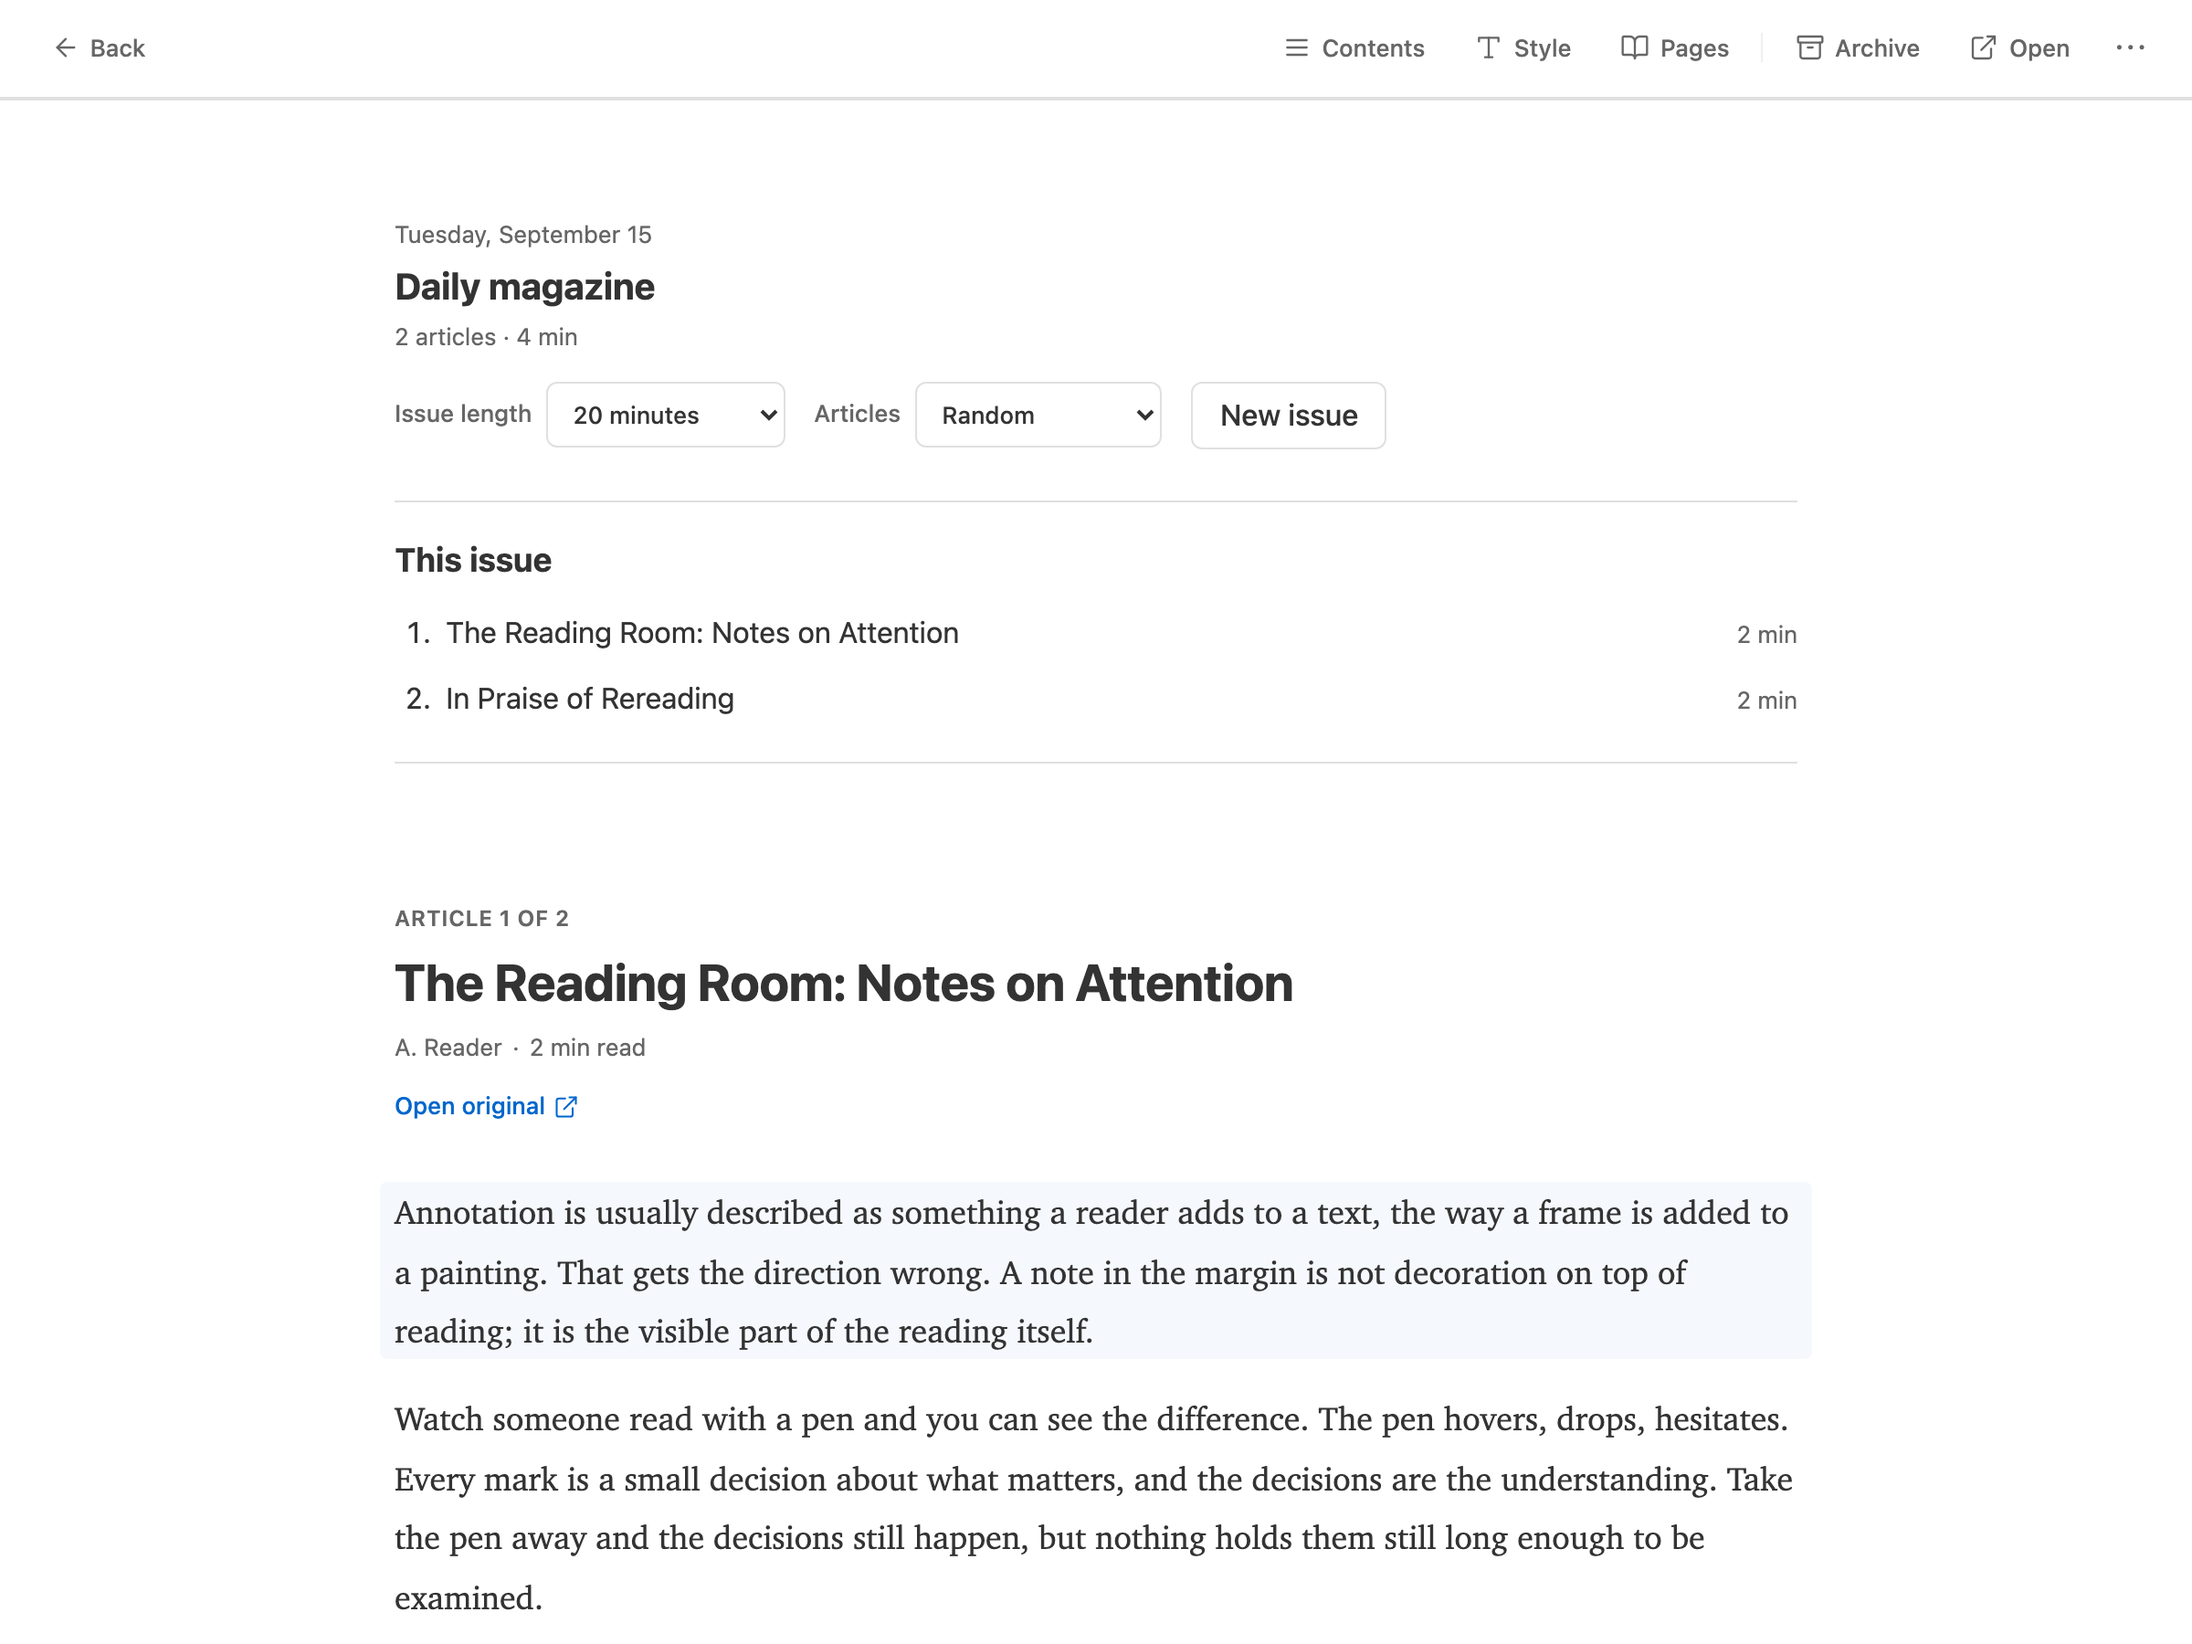
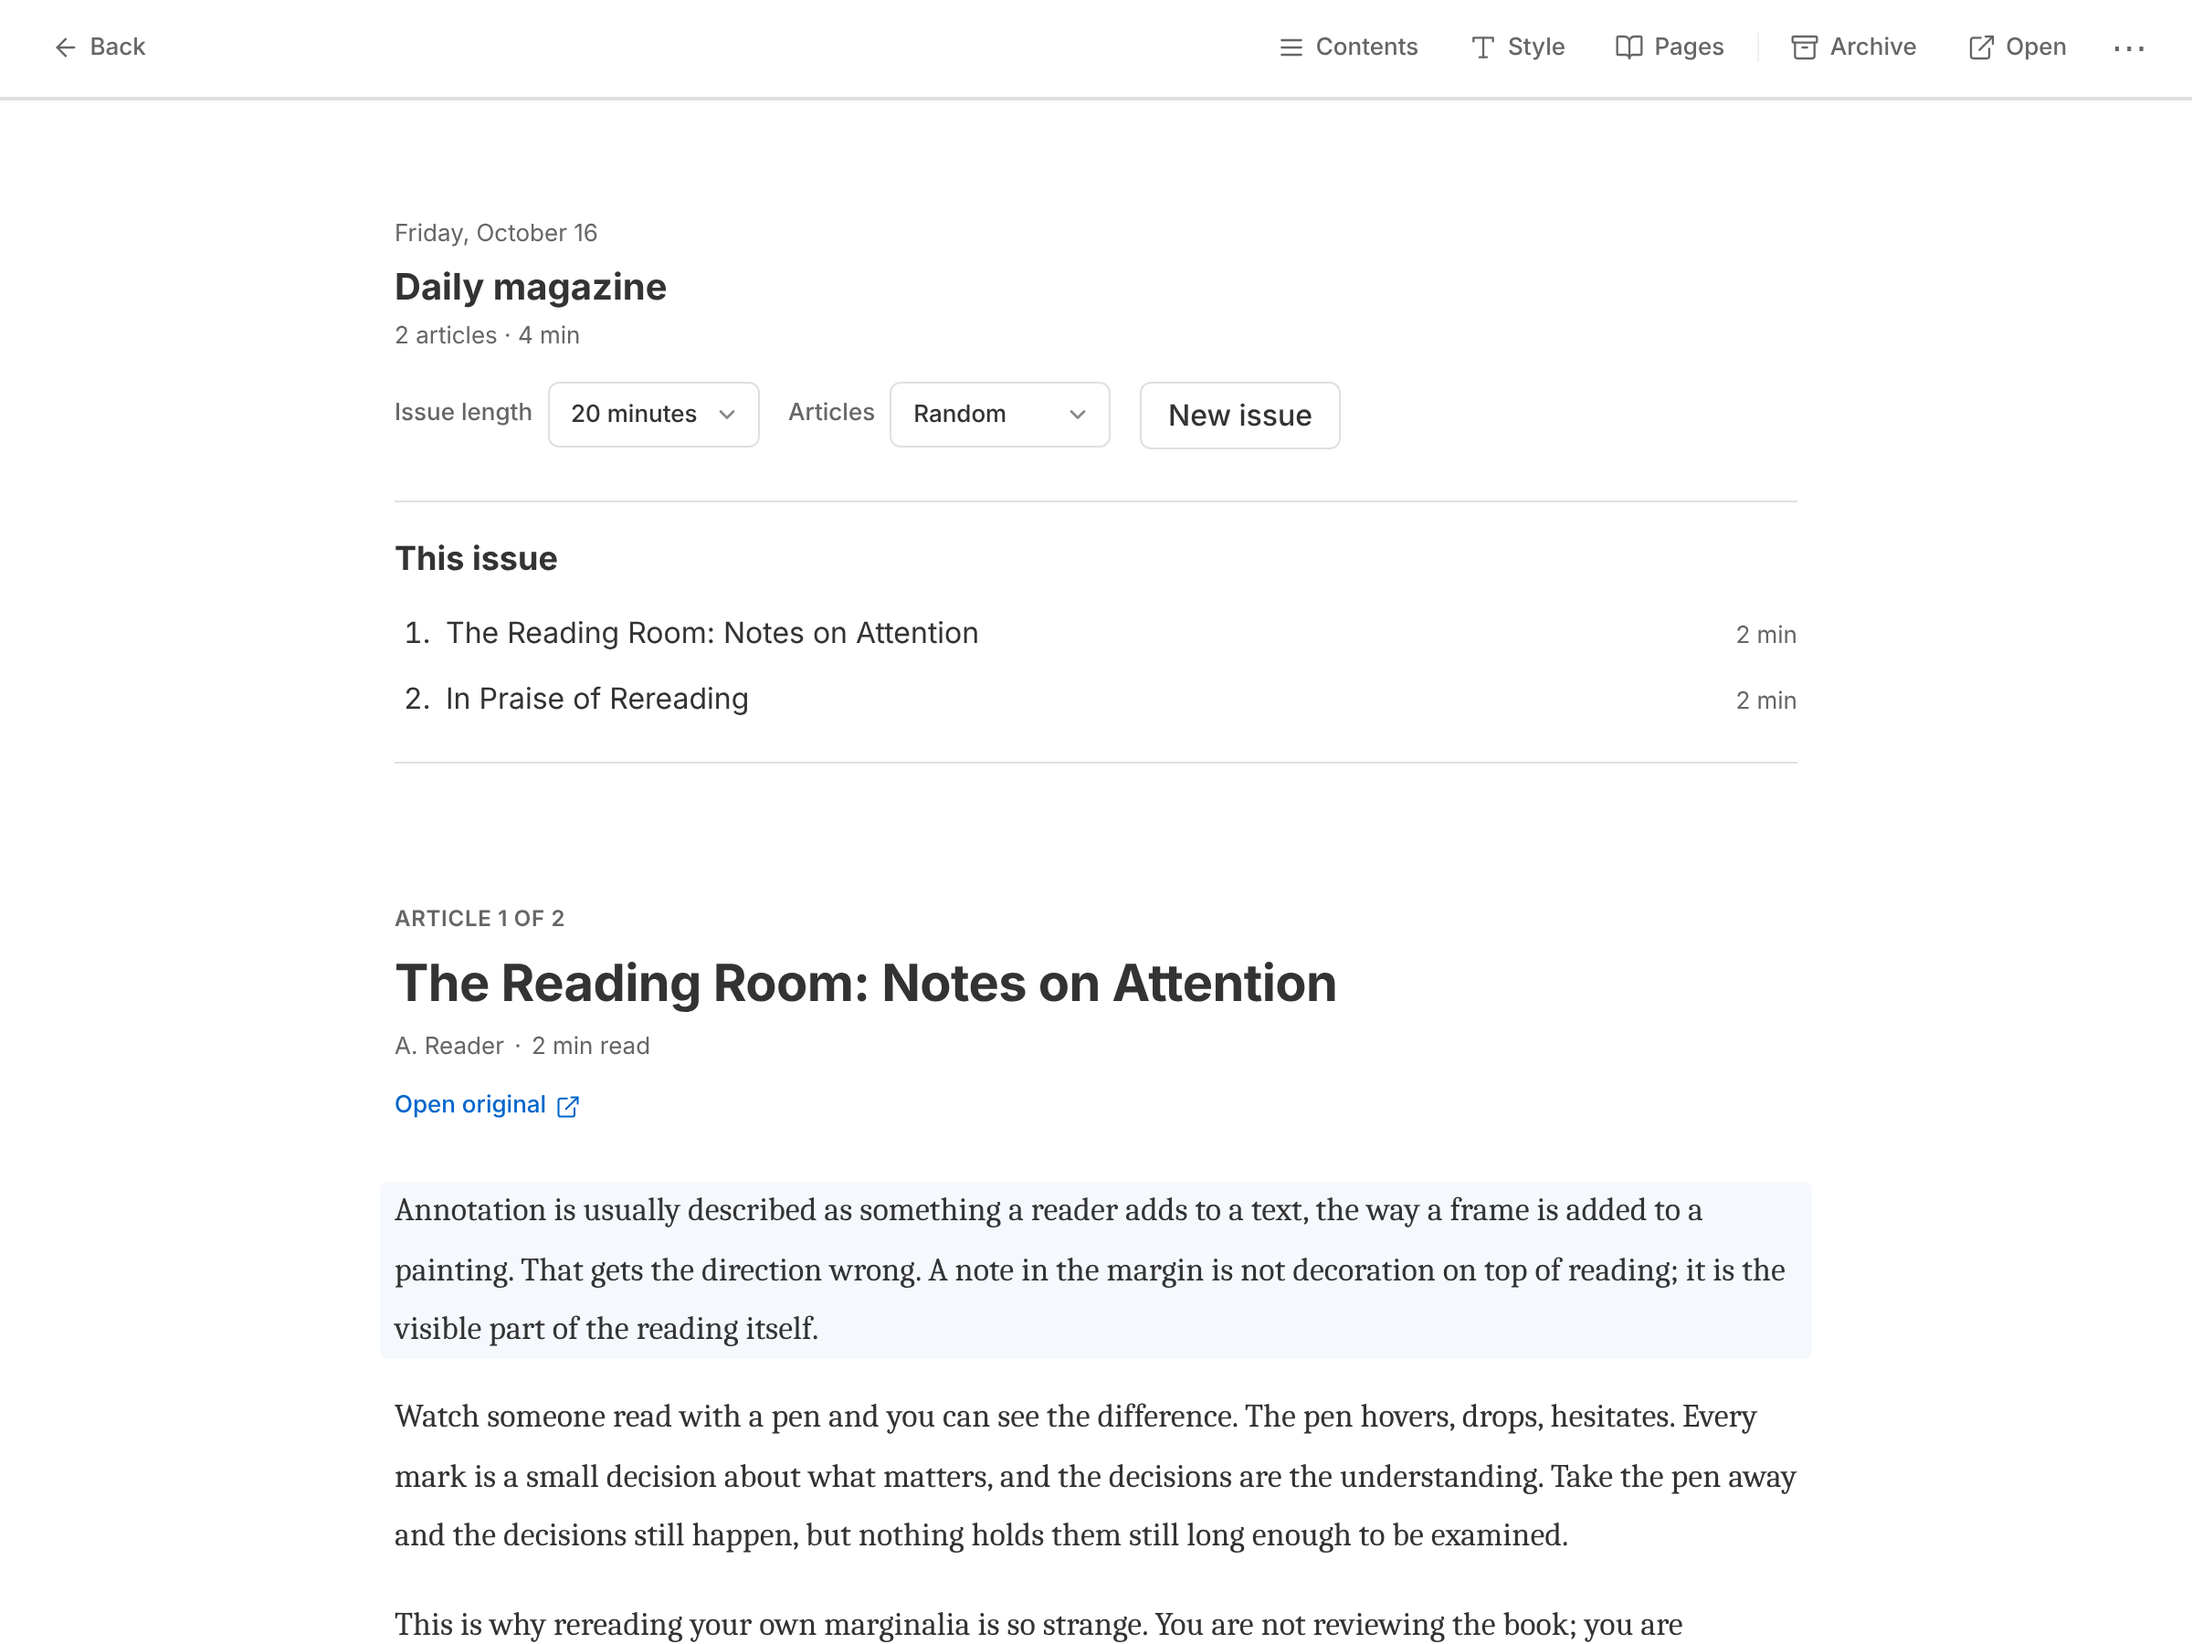
Docs: regenerate screenshots for the Library, add a Shelf shot
`npm run shots:docs` again, so every shot shows the Library sidebar
(Queue + Shelf). The Queue shot now includes a paper and a book marked
"On Shelf", and a new shelf.png shows the Shelf with a book archived
from the Queue, embedded in "Your Library: Queue and Shelf". The PDF
section notes Original-view reading reaches Continue reading.

Two shot specs had drifted from the app and no longer ran: the composer
now has two attribution toggles (pick "Posted from Skyreader" by name),
and the Add dialog opens with tabs (go through Website).

Claude-Session: https://claude.ai/code/session_013S31B3Wkz654c8N7GHFcZu

diff --git a/e2e-docs/docs-screenshots.spec.ts b/e2e-docs/docs-screenshots.spec.ts
@@ -142,9 +142,10 @@ test.describe('Sharing and your linkblog', () => {
       .fill('The case for slowness here is really a case for holding more in mind at once.');
 
     // Tick "Posted from Skyreader" so the preview line shows what opting in adds.
-    await composer.locator('.attribution-toggle input').check();
+    const attribution = composer.getByRole('checkbox', { name: 'Posted from Skyreader' });
+    await attribution.check();
     // Park focus so no caret lands in the shot.
-    await composer.locator('.attribution-toggle input').blur();
+    await attribution.blur();
 
     await shootElement(authedPage, composer, 'linkblog-composer.png');
   });
@@ -353,11 +354,63 @@ test.describe('Saving and highlights', () => {
       });
     }
 
+    // A paper and two books, so the Queue shows what's also on the Shelf, and the
+    // Shelf shows a book archived from the Queue that it keeps.
+    const now = Date.now();
+    await seedSavedArticle(testUser, {
+      url: 'https://example.com/papers/close-reading.pdf',
+      title: 'Close Reading in a Distracted Age',
+      author: 'M. Margins',
+      contentType: 'pdf',
+      savedAt: now - 30 * 60_000,
+    });
+    await seedSavedArticle(testUser, {
+      url: 'https://example.com/books/middlemarch.epub',
+      title: 'Middlemarch',
+      author: 'George Eliot',
+      contentType: 'epub',
+      savedAt: now - 26 * 60 * 60_000,
+    });
+    const finished = await seedSavedArticle(testUser, {
+      url: 'https://example.com/books/the-waves.epub',
+      title: 'The Waves',
+      author: 'Virginia Woolf',
+      contentType: 'epub',
+      savedAt: now - 5 * 24 * 60 * 60_000,
+    });
+    const finishedUri = `at://${testUser.did}/app.skyreader.feed.saved/${finished}`;
+    await seedItemLabel(testUser, {
+      itemKey: finishedUri,
+      itemType: 'saved',
+      label: 'archived',
+      props: '{}',
+    });
+    await seedItemLabel(testUser, {
+      itemKey: finishedUri,
+      itemType: 'saved',
+      label: 'readProgress',
+      props: JSON.stringify({ paragraphIndex: 24, totalParagraphs: 60, lastReadAt: now }),
+    });
+
     await prettifyAccount(authedPage);
     await authedPage.goto('/saved');
     await expect(authedPage.getByText(saves[0].title)).toBeVisible({ timeout: 15_000 });
+    await expect(
+      authedPage.locator('.bookmark-card', { hasText: 'Middlemarch' }).getByText('On Shelf')
+    ).toBeVisible();
     await authedPage.evaluate(() => document.fonts.ready);
     await authedPage.screenshot({ path: join(OUT_DIR, 'saved.png'), animations: 'disabled' });
+
+    // The Shelf: the same saves, kept. The archived book stays, marked so.
+    await authedPage.goto('/shelf');
+    await expect(
+      authedPage.locator('.shelf-card', { hasText: 'The Waves' }).getByText('Archived')
+    ).toBeVisible({ timeout: 15_000 });
+    await authedPage.evaluate(() => document.fonts.ready);
+    await authedPage.screenshot({ path: join(OUT_DIR, 'shelf.png'), animations: 'disabled' });
+
+    await authedPage.goto('/saved');
+    await expect(authedPage.getByText(saves[0].title)).toBeVisible({ timeout: 15_000 });
 
     // Into the full-screen reader.
     await authedPage.getByText(saves[0].title).first().click();
@@ -472,13 +525,11 @@ test.describe('Adding sources', () => {
     );
 
     await authedPage.goto('/feeds');
-    await authedPage.locator('button.add-trigger[aria-label="Add source"]').click();
-    const input = authedPage.getByPlaceholder('Paste URL or @handle...');
-    await input.fill('commonplace.example.com');
-    await input.press('Enter');
-
+    await authedPage.locator('button.add-trigger').first().click();
     const modal = authedPage.locator('.modal');
     await expect(modal).toBeVisible({ timeout: 5_000 });
+    await modal.getByRole('tab', { name: /Website/ }).click();
+    await modal.getByLabel('Website or feed URL').fill('commonplace.example.com');
     await modal.locator('button.add-btn', { hasText: 'Add' }).click();
     await expect(modal.getByText('Multiple feeds found')).toBeVisible();
     await authedPage.evaluate(() => document.fonts.ready);

diff --git a/docs-site/src/content/docs/guide/saving-and-highlights.md b/docs-site/src/content/docs/guide/saving-and-highlights.md
@@ -25,7 +25,7 @@ If the article is already in Semble or Margin, the picker opens on the collectio
 
 PDFs are a [Supporter](/supporter/) feature. Save a link to a PDF (a paper, a report) the same way you save an article, or upload one from your device: open **+ → File**, or drop the file anywhere in Skyreader. Skyreader keeps its text, set as ordinary paragraphs, so you can read, highlight, take notes, and search it like anything else you save.
 
-A saved PDF opens as text, set for reading. For figures, tables, equations, and layout, switch the toggle under the title from **Text** to **Original** to see the pages as printed. Highlight and take notes on either: a passage you mark in one is marked in the other. The PDF's own links work there too: a reference or a contents entry jumps to its page, and the arrow beside the page number takes you back. Skyreader remembers which you prefer and the zoom you left each PDF at, and Original opens where you stopped reading, on any of your devices. In Original, the text-size keys zoom the pages: **Shift +** and **Shift -**, with **Shift 0** to fit the width. Skyreader keeps the original of every PDF you save, by link or upload, so it stays readable even if its site takes it down.
+A saved PDF opens as text, set for reading. For figures, tables, equations, and layout, switch the toggle under the title from **Text** to **Original** to see the pages as printed. Highlight and take notes on either: a passage you mark in one is marked in the other. The PDF's own links work there too: a reference or a contents entry jumps to its page, and the arrow beside the page number takes you back. Skyreader remembers which you prefer and the zoom you left each PDF at, and Original opens where you stopped reading, on any of your devices. Whichever view you read in, a PDF you're partway through shows in **Continue reading**. In Original, the text-size keys zoom the pages: **Shift +** and **Shift -**, with **Shift 0** to fit the width. Skyreader keeps the original of every PDF you save, by link or upload, so it stays readable even if its site takes it down.
 
 A scanned PDF has no text to keep, and a password-protected one can't be read. A very long PDF keeps the text of its first pages, and says so at the end.
 
@@ -63,6 +63,8 @@ Everything you save is in your **Library**, which you can read two ways. Switch 
 - The **Shelf** is what you keep and come back to, like books, papers, and references. Finishing something doesn't take it off.
 
 They're the same saves, so an item can be in both, and the two don't affect each other. Archiving clears an item from the Queue's inbox and leaves it on the Shelf, marked **Archived**. In the Queue, an item that's also on your Shelf is marked **On Shelf**. Each item's **⋯** menu shows both, side by side: **Archive** under Queue, **Keep on Shelf** under Shelf.
+
+![The Shelf: books, papers, and kept articles as covers, with what you're partway through first](../../../assets/screenshots/shelf.png)
 
 Books and PDFs go on the Shelf as soon as you save them. To put anything else there, choose **Keep on Shelf** from its **⋯** menu, or from the **⋯** menu while you're reading it. **Take off Shelf** removes it, and the save stays in your Queue.
 
